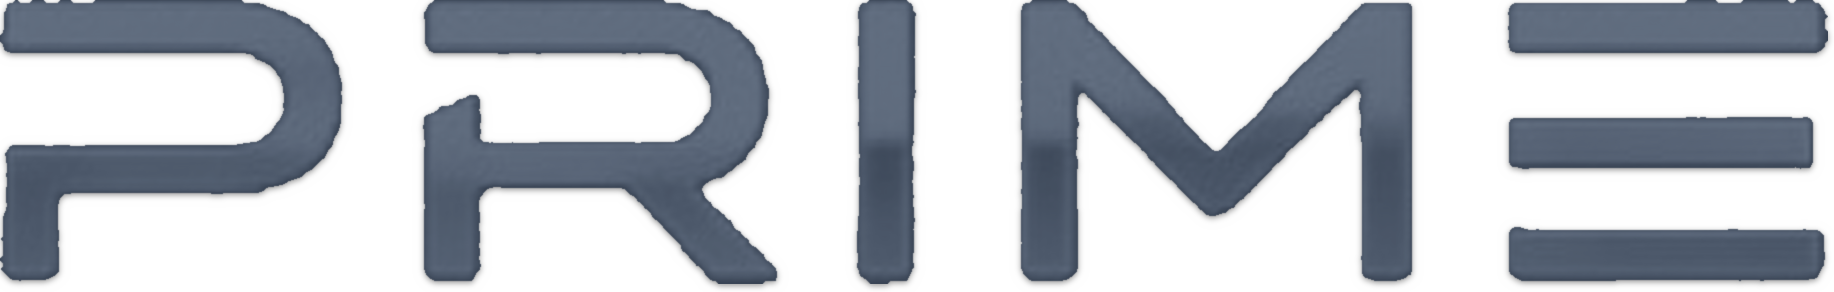
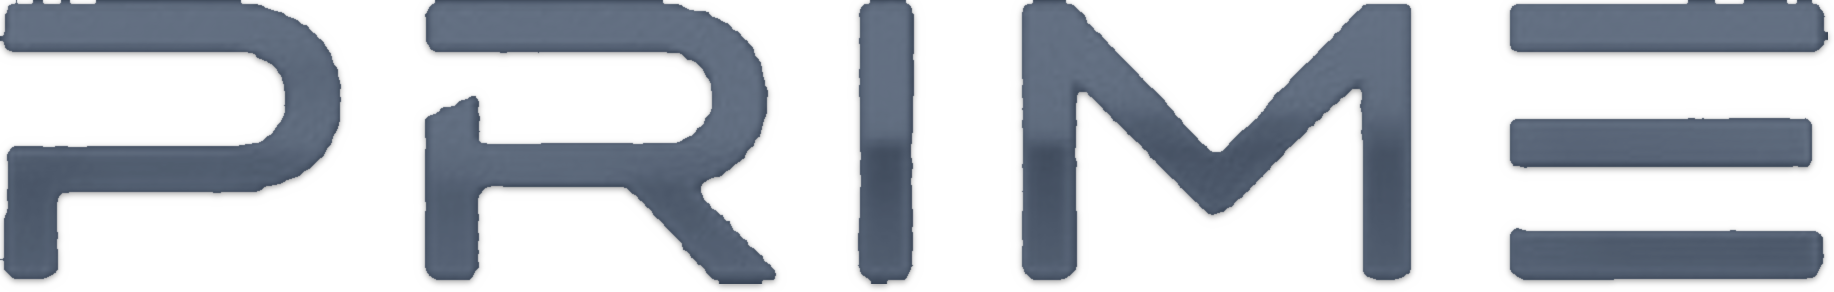
style: migrate typography to Lato
Replace Open Sans Condensed with Lato across all modules to improve legibility and update header logo scaling.

diff --git a/app/globals.css b/app/globals.css
@@ -1,16 +1,16 @@
 @import "tailwindcss";
 
 @theme {
-  --font-sans: 'Open Sans Condensed', 'Open Sans', 'Arial Narrow', sans-serif;
+  --font-sans: 'Lato Condensed', 'Lato', 'Arial Narrow', sans-serif;
   --font-heading: 'Roboto Condensed', sans-serif;
-  --font-mono: 'Open Sans Condensed', 'Open Sans', 'Arial Narrow', sans-serif;
-  --font-ibm-condensed: 'IBM Plex Sans Condensed', 'IBM Plex Mono', 'Open Sans Condensed', 'Arial Narrow', sans-serif;
+  --font-mono: 'Lato Condensed', 'Lato', 'Arial Narrow', sans-serif;
+  --font-ibm-condensed: 'IBM Plex Sans Condensed', 'IBM Plex Mono', 'Lato Condensed', 'Lato', sans-serif;
 }
 
-/* Base Body & Layout Font: Open Sans Condensed */
+/* Base Body & Layout Font: Lato Condensed / Lato */
 html, body {
-  font-family: 'Open Sans Condensed', 'Open Sans', 'Arial Narrow', sans-serif;
-  font-stretch: condensed;
+  font-family: 'Lato Condensed', 'Lato', 'Arial Narrow', sans-serif;
+  letter-spacing: -0.01em;
 }
 
 /* Headings, Section Titles, and Labels: Strictly Roboto Condensed Regular (Weight 400) */
@@ -20,15 +20,15 @@ h1, h2, h3, h4, h5, h6, .font-heading, label {
   letter-spacing: 0.03em;
 }
 
-/* Monospace, Codes, Numbers, Order Details, Customer ID, and Technical Labels: Open Sans Condensed */
+/* Monospace, Codes, Numbers, Order Details, Customer ID, and Technical Labels: Lato Condensed / Lato */
 .font-mono, code, pre, kbd, samp {
-  font-family: 'Open Sans Condensed', 'Open Sans', 'Arial Narrow', sans-serif !important;
-  font-stretch: condensed;
+  font-family: 'Lato Condensed', 'Lato', 'Arial Narrow', sans-serif !important;
+  letter-spacing: -0.01em;
 }
 
 /* IBM Plex Condensed / IBM Flex Condensed for Order Details Data Values */
 .font-ibm-condensed, .font-value {
-  font-family: 'IBM Plex Sans Condensed', 'IBM Plex Mono', 'Open Sans Condensed', 'Arial Narrow', sans-serif !important;
+  font-family: 'IBM Plex Sans Condensed', 'IBM Plex Mono', 'Lato Condensed', 'Lato', sans-serif !important;
 }
 
 /* Universal Form Controls font inheritance */
@@ -36,10 +36,10 @@ button, input, select, textarea, optgroup {
   font-family: inherit;
 }
 
-/* Explicit form controls with font-mono class strictly use Open Sans Condensed */
+/* Explicit form controls with font-mono class strictly use Lato Condensed */
 input.font-mono, textarea.font-mono, button.font-mono {
-  font-family: 'Open Sans Condensed', 'Open Sans', 'Arial Narrow', sans-serif !important;
-  font-stretch: condensed;
+  font-family: 'Lato Condensed', 'Lato', 'Arial Narrow', sans-serif !important;
+  letter-spacing: -0.01em;
 }
 
 

diff --git a/app/layout.tsx b/app/layout.tsx
@@ -1,5 +1,6 @@
 import type { Metadata, Viewport } from "next";
-import "@fontsource/open-sans-condensed/index.css";
+import "@fontsource/lato/400.css";
+import "@fontsource/lato/700.css";
 import "@fontsource/roboto-condensed/400.css";
 import "./globals.css";
 import CartProvider from "./components/cart-context";
@@ -38,7 +39,7 @@ export default function RootLayout({
         <link rel="preconnect" href="https://fonts.googleapis.com" />
         <link rel="preconnect" href="https://fonts.gstatic.com" crossOrigin="anonymous" />
         <link 
-          href="https://fonts.googleapis.com/css2?family=Open+Sans+Condensed:wght@300;700&family=Open+Sans:wdth,wght@75,300..800&family=IBM+Plex+Sans+Condensed:wght@400;500;600;700&family=Roboto+Condensed:wght@400;700&display=swap" 
+          href="https://fonts.googleapis.com/css2?family=Lato:ital,wght@0,300;0,400;0,700;0,900;1,400&family=IBM+Plex+Sans+Condensed:wght@400;500;600;700&family=Roboto+Condensed:wght@400;700&display=swap" 
           rel="stylesheet" 
         />
         <Script src="https://telegram.org/js/telegram-web-app.js" strategy="beforeInteractive" />

diff --git a/app/admin/page.tsx b/app/admin/page.tsx
@@ -1411,7 +1411,7 @@ export default function AdminPage() {
               <img 
                 src="/prime-logo-metallic.png" 
                 alt="PRIME" 
-                className="h-[38px] w-auto object-contain drop-shadow-xs" 
+                className="h-7 sm:h-[28px] w-auto object-contain drop-shadow-xs" 
               />
             </div>
             <h1 className="text-2xl font-heading font-black text-center mb-1 tracking-widest uppercase text-white">Admin</h1>
@@ -1471,7 +1471,7 @@ export default function AdminPage() {
                 <img 
                   src="/prime-logo-metallic.png" 
                   alt="PRIME" 
-                  className="h-[38px] w-auto object-contain shrink-0 drop-shadow-xs" 
+                  className="h-7 sm:h-[28px] w-auto object-contain shrink-0 drop-shadow-xs" 
                 />
                 {adminUser?.photoUrl ? (
                   <img src={adminUser.photoUrl} alt="Admin" className="w-14 h-14 rounded-2xl object-cover shadow-sm border border-slate-200 shrink-0" />

diff --git a/app/page.tsx b/app/page.tsx
@@ -215,7 +215,7 @@ export default function Shopfront() {
             <img 
               src="/prime-logo-metallic.png" 
               alt="PRIME" 
-              className="h-[38px] w-auto object-contain shrink-0 drop-shadow-xs" 
+              className="h-7 sm:h-[28px] w-auto object-contain shrink-0 drop-shadow-xs" 
             />
           </div>
           

diff --git a/AGENTS.md b/AGENTS.md
@@ -1,10 +1,10 @@
 # Project Instructions & Persistent Rules
 
 ## Typography Rules
-- The font family for `.font-mono`, technical labels, numbers, codes, order details, and secondary notices is strictly **Open Sans Condensed** (`'Open Sans Condensed', 'Open Sans', 'Arial Narrow', sans-serif`).
-- `IBM Plex Mono` and `Arial Narrow` have been replaced with **Open Sans Condensed** across all storefront and admin modules. All future implementations using monospace, receipt, order, or technical labels must use Open Sans Condensed (`font-mono` / `'Open Sans Condensed', 'Open Sans', sans-serif`).
+- The font family for `.font-mono`, technical labels, numbers, codes, order details, and secondary notices is strictly **Lato Condensed** (`'Lato Condensed', 'Lato', 'Arial Narrow', sans-serif`).
+- `IBM Plex Mono`, `Arial Narrow`, and `Open Sans Condensed` have been replaced with **Lato Condensed** / **Lato** across all storefront and admin modules. All future implementations using monospace, receipt, order, or technical labels must use Lato Condensed (`font-mono` / `'Lato Condensed', 'Lato', sans-serif`).
 - Headings and section titles use **Roboto Condensed Regular** (weight 400).
-- Body and layout text use **Open Sans Condensed** / sans-serif.
+- Body and layout text use **Lato Condensed** / **Lato** / sans-serif.
 
 ## Checkout UI Rules
 - In the multi-step checkout modal header, never display verbose or highlighted badges like "STEP 1 OF 4" or pills with colored borders/backgrounds.
